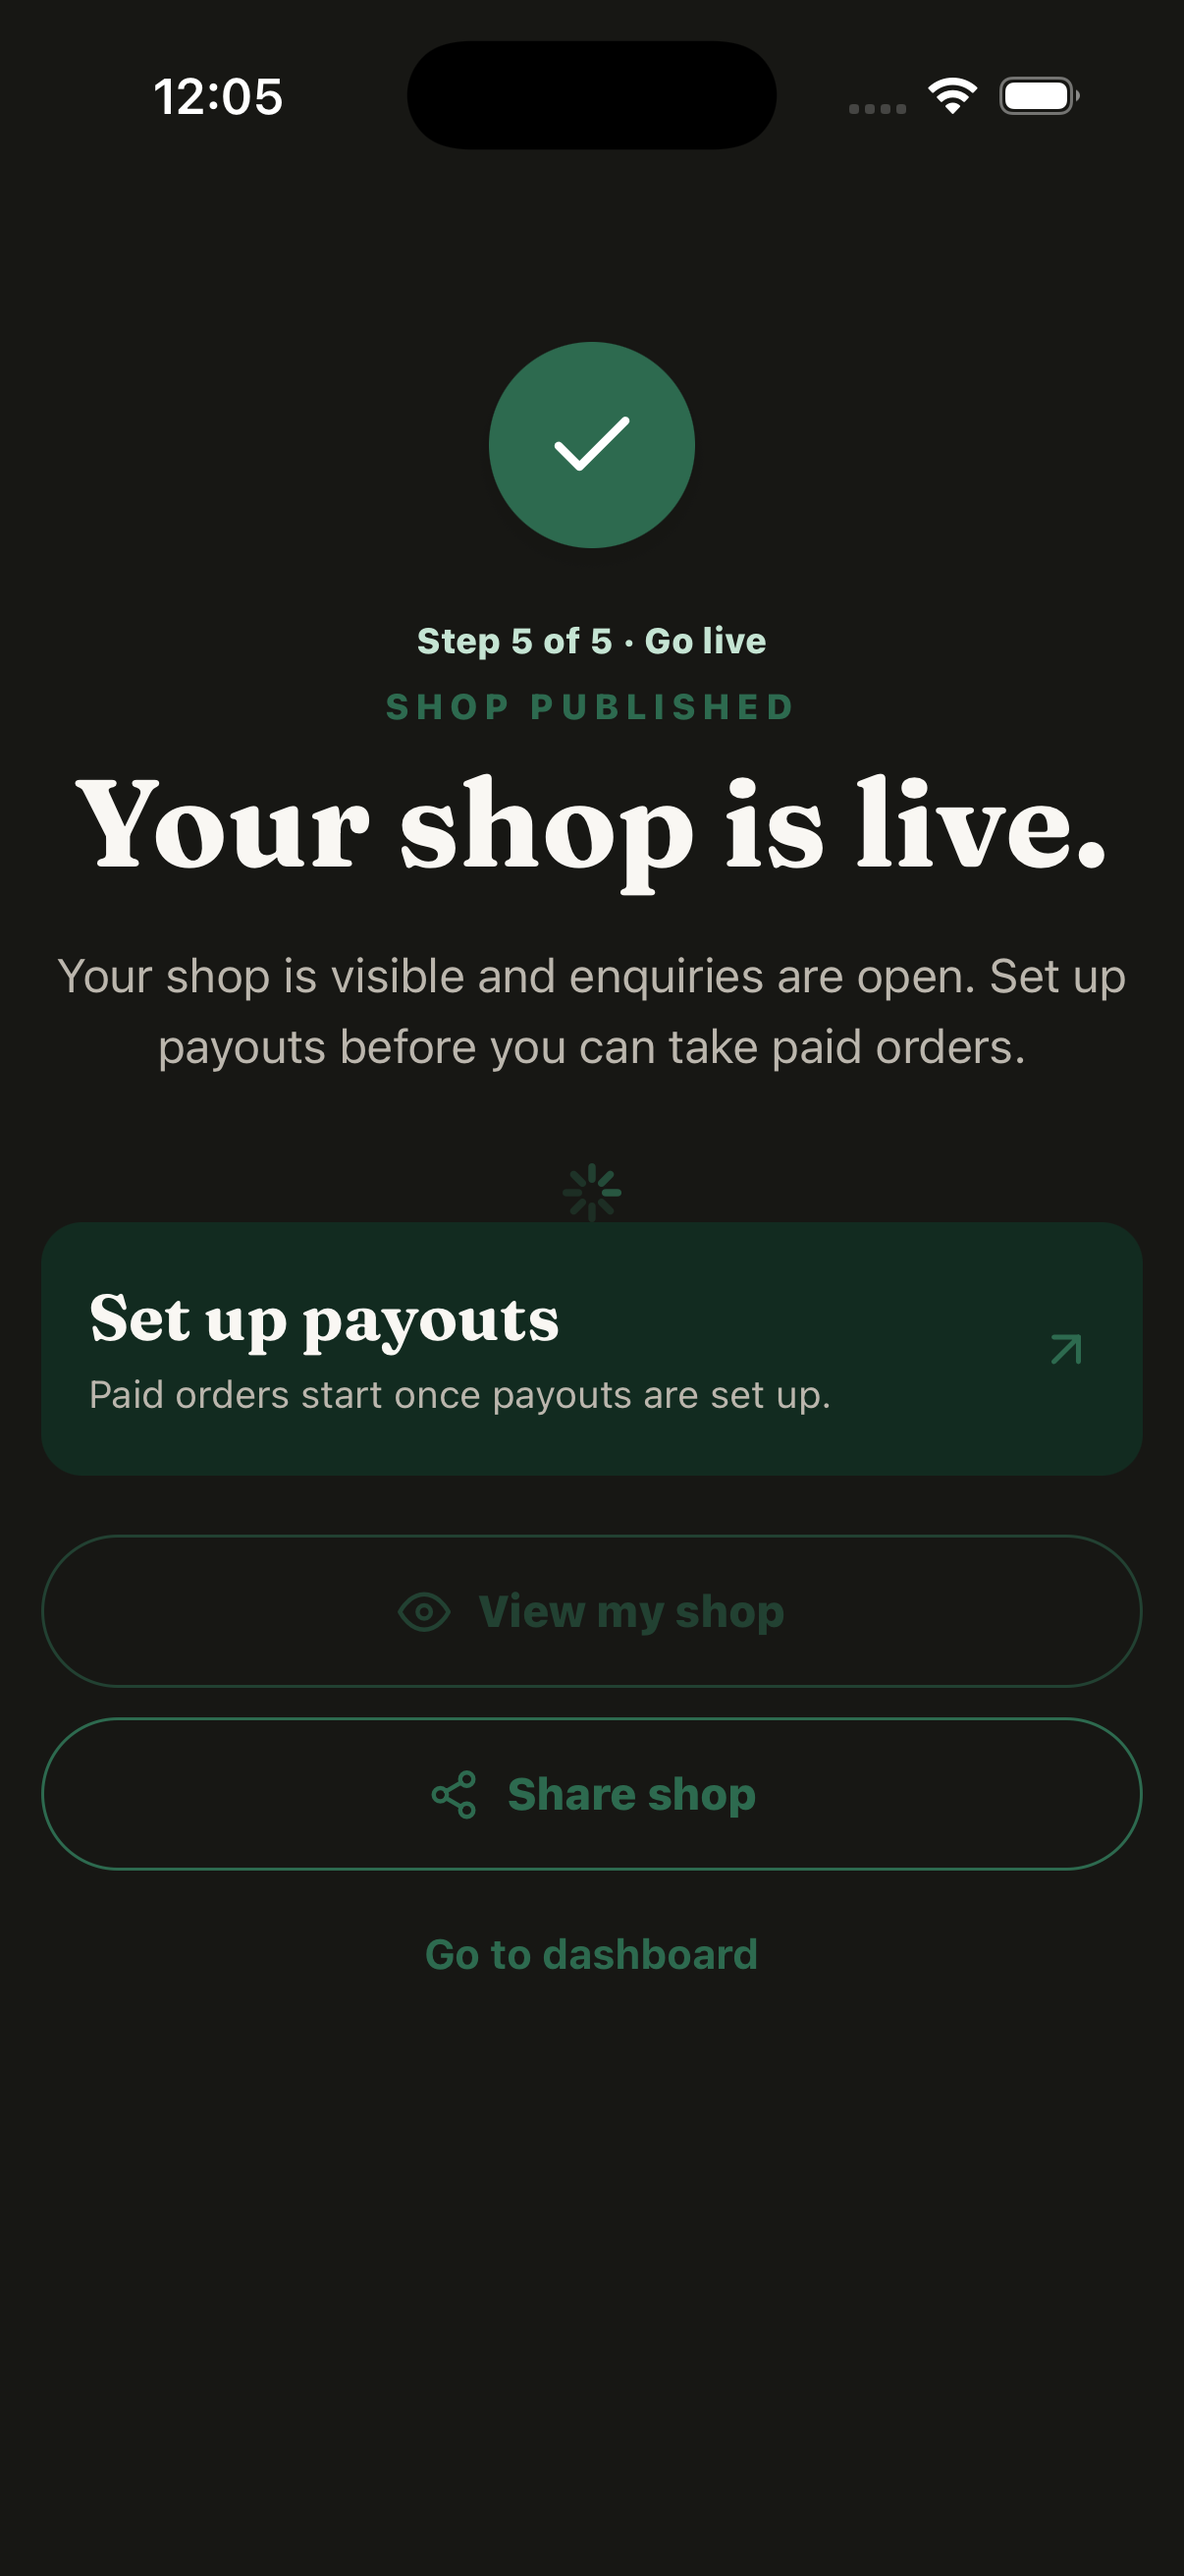
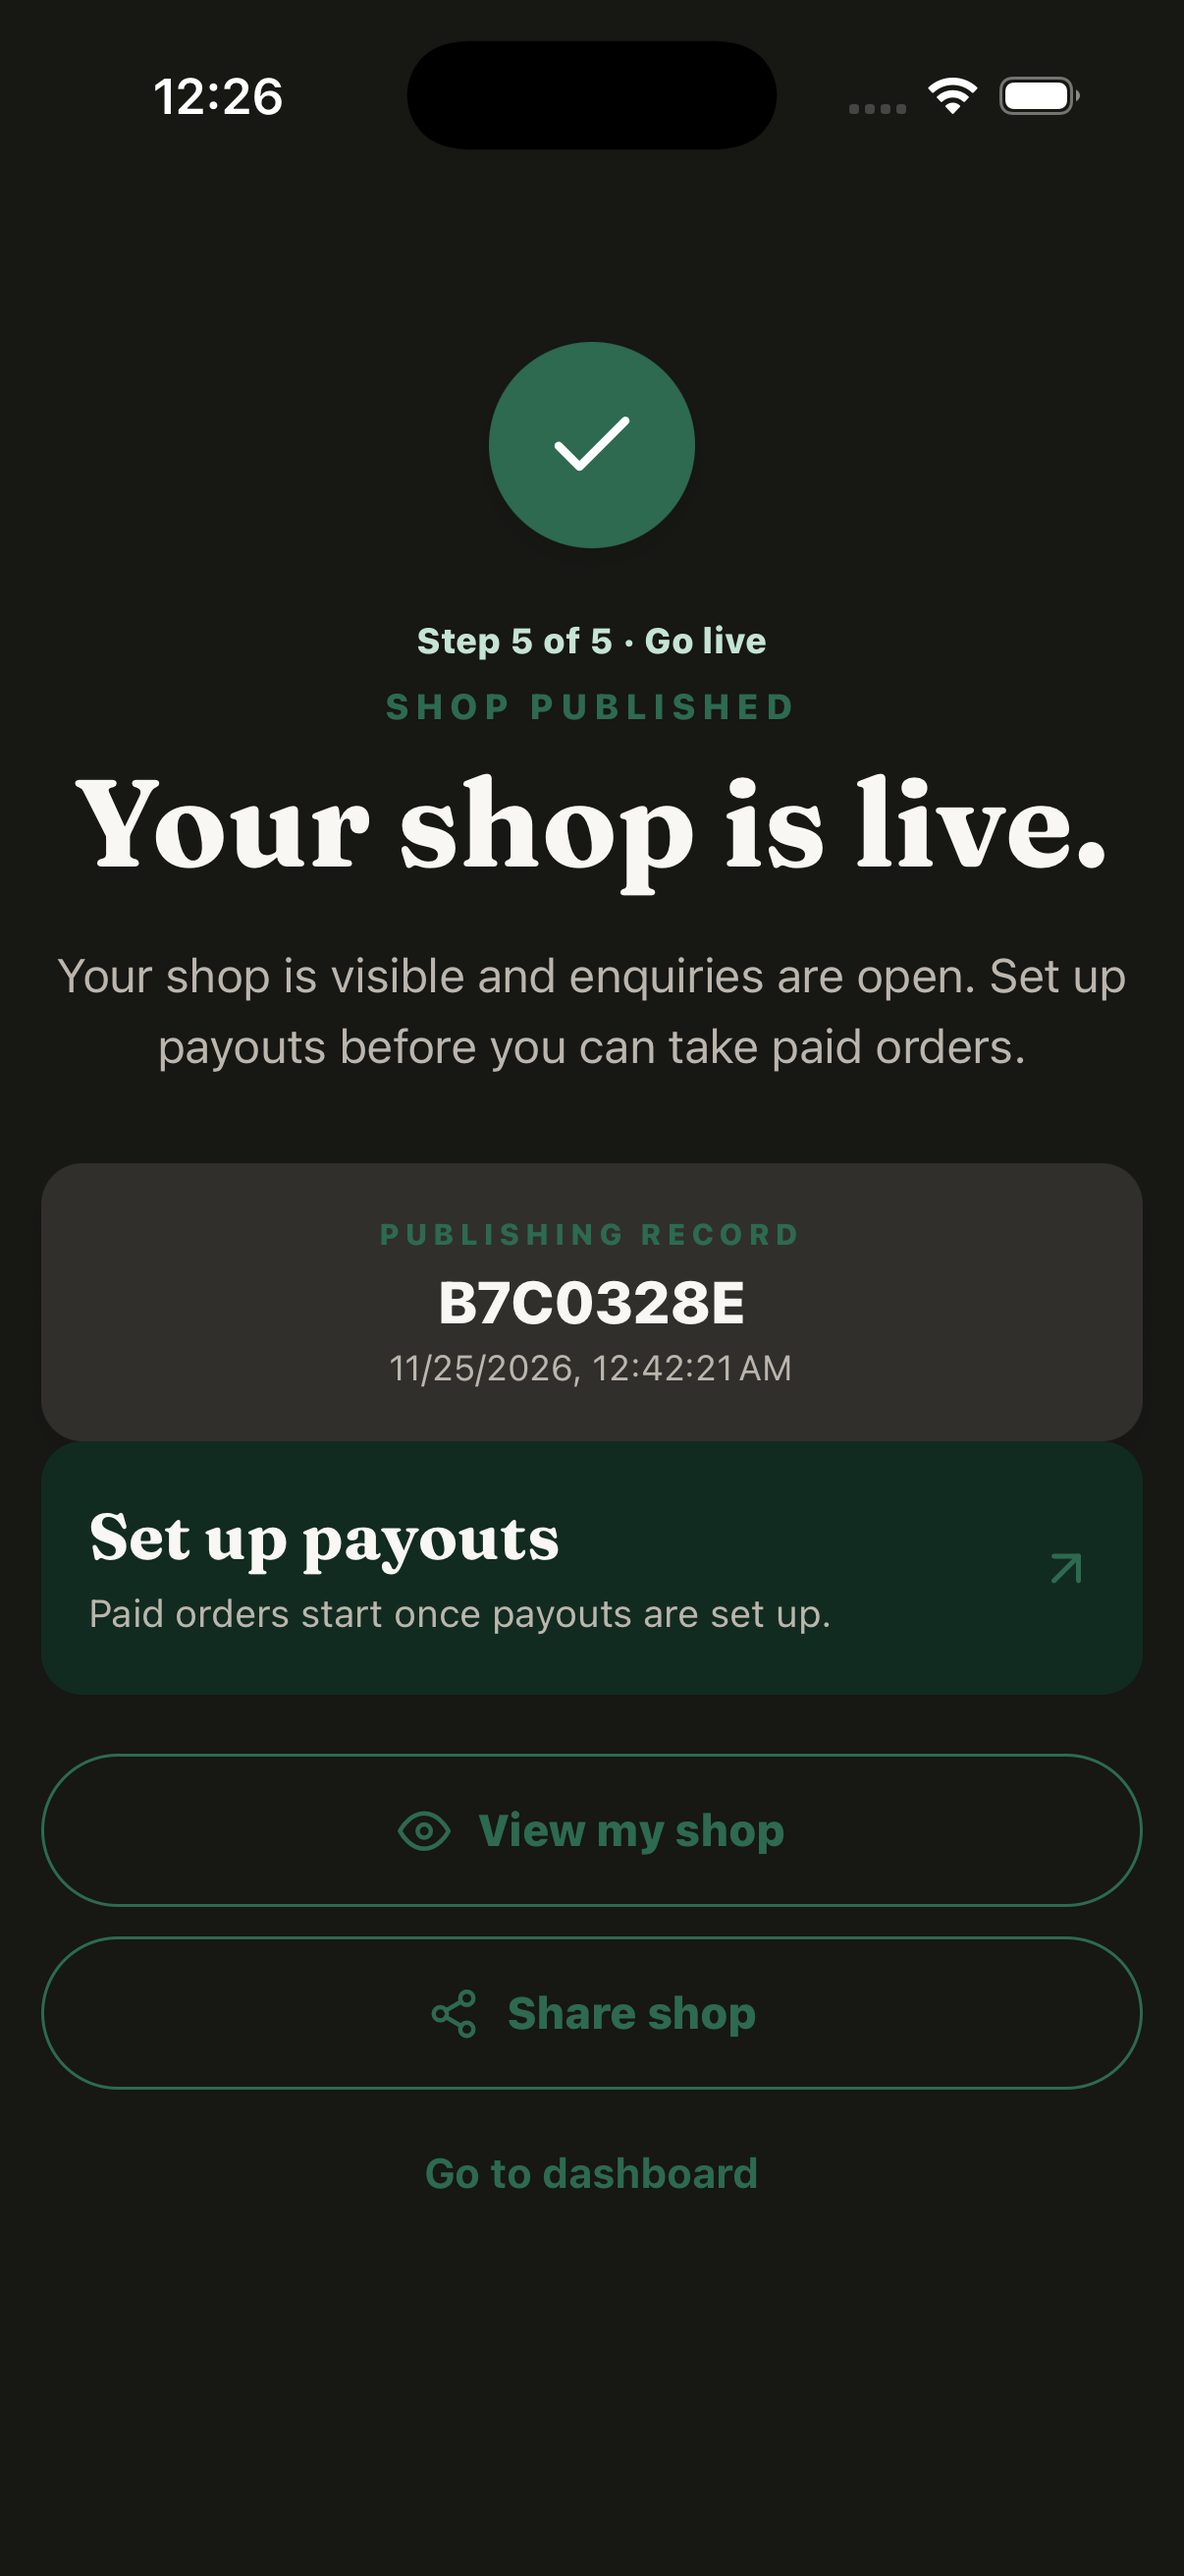
Fix claim receipt route typecheck and complete theme proof

diff --git a/apps/mobile/app/(tailor)/_layout.tsx b/apps/mobile/app/(tailor)/_layout.tsx
@@ -52,7 +52,7 @@ export default function TailorTabLayout() {
   const pendingCount = useActiveOrderCount()
   const segments = useSegments()
   const hideTabBar = segments[0] === '(tailor)' &&
-    (segments.length > 2 || segments[1] === 'claim-receipt')
+    (segments.length > 2 || (segments as string[])[1] === 'claim-receipt')
 
   return (
     <DrapeCapsuleNavProvider>

diff --git a/docs/evidence/claim-receipt-theme-2026-11-26.md b/docs/evidence/claim-receipt-theme-2026-11-26.md
@@ -3,6 +3,8 @@
 On 2026-11-26, the existing Development iPhone 17 Pro client (`co.drapeon.app.dev`, runtime 1.0.4) loaded the branch through Metro against `pqptfuqogvrajozfsqzi`. I opened an existing completed Development receipt by ID, with no claim token or new claim link.
 
 - [Light appearance](claim-receipt-light-2026-11-26.png): completed receipt and payout hand-off rendered with the light palette.
-- [Dark appearance](claim-receipt-dark-2026-11-26.png): receipt shell, title, and payout hand-off rendered with the dark palette; the hidden-route tab bar stayed hidden. The receipt lookup was still showing its loading indicator at capture time, so this image proves the appearance change rather than a second receipt fetch.
+- [Dark appearance](claim-receipt-dark-2026-11-26.png): the completed receipt, publishing record, and payout hand-off rendered with the dark palette; the hidden-route tab bar stayed hidden.
+
+From the dark receipt, **Set up payouts** opened the existing payout path in the app's light palette. Back returned to the light profile screen with the LIVE badge and the tab bar visible. This verified that leaving the receipt restores the app's light-first appearance.
 
 The route now applies the system appearance only while focused and restores the app's light-first setting on blur. The contract test checks this focus lifecycle, palette use, and hidden receipt tab bar. No Production action was taken.
